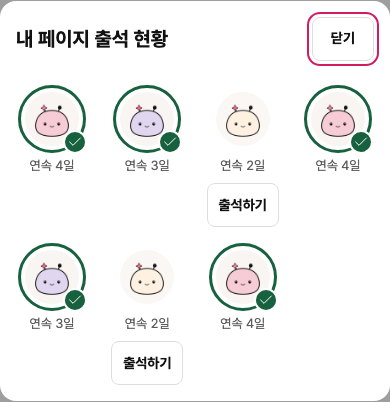
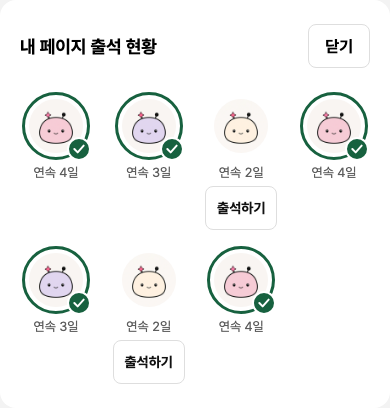
fix(dukjil): attendance button sits 4px under the streak line (drop the duplicate margin), guard it in the contract test, refresh the after capture

diff --git a/apps/web/features/dukjil/ui/attendance-avatars.module.css b/apps/web/features/dukjil/ui/attendance-avatars.module.css
@@ -8,4 +8,4 @@
 .image { display: block; width: 100%; height: 100%; border-radius: var(--radius-pill); object-fit: cover; background: var(--color-soft); pointer-events: none; }
 .check { position: absolute; right: -4px; bottom: -4px; display: grid; place-items: center; width: 24px; height: 24px; box-sizing: border-box; border: 2px solid var(--color-surface); border-radius: var(--radius-pill); background: var(--attendance-done); color: var(--color-surface); }
 .streak { min-height: 18px; color: var(--color-muted); font-size: var(--fan-metadata-size); line-height: var(--fan-metadata-leading); font-variant-numeric: tabular-nums; text-align: center; }
-.action { width: 100%; min-width: 0; margin-top: var(--space-1); padding-inline: var(--space-1); }
+.action { width: 100%; min-width: 0; padding-inline: var(--space-1); }

diff --git a/apps/web/features/dukjil/ui/my-attendance-list.test.tsx b/apps/web/features/dukjil/ui/my-attendance-list.test.tsx
@@ -132,4 +132,7 @@ it("modal grid keeps a fixed 72px track so avatars sit close together", async ()
   const css = readFileSync("features/dukjil/ui/attendance-avatars.module.css", "utf8");
   expect(css).toMatch(/\.list \{[^}]*grid-template-columns: repeat\(auto-fill, 72px\)/);
   expect(css).toMatch(/\.list \{[^}]*gap: var\(--space-4\) var\(--space-2\)/);
+  // The 4px between avatar, streak and button comes from .item's gap alone; a margin on .action would make it 8px.
+  expect(css).toMatch(/\.item \{[^}]*gap: var\(--space-1\)/);
+  expect(css).not.toMatch(/\.action \{[^}]*margin/);
 });
